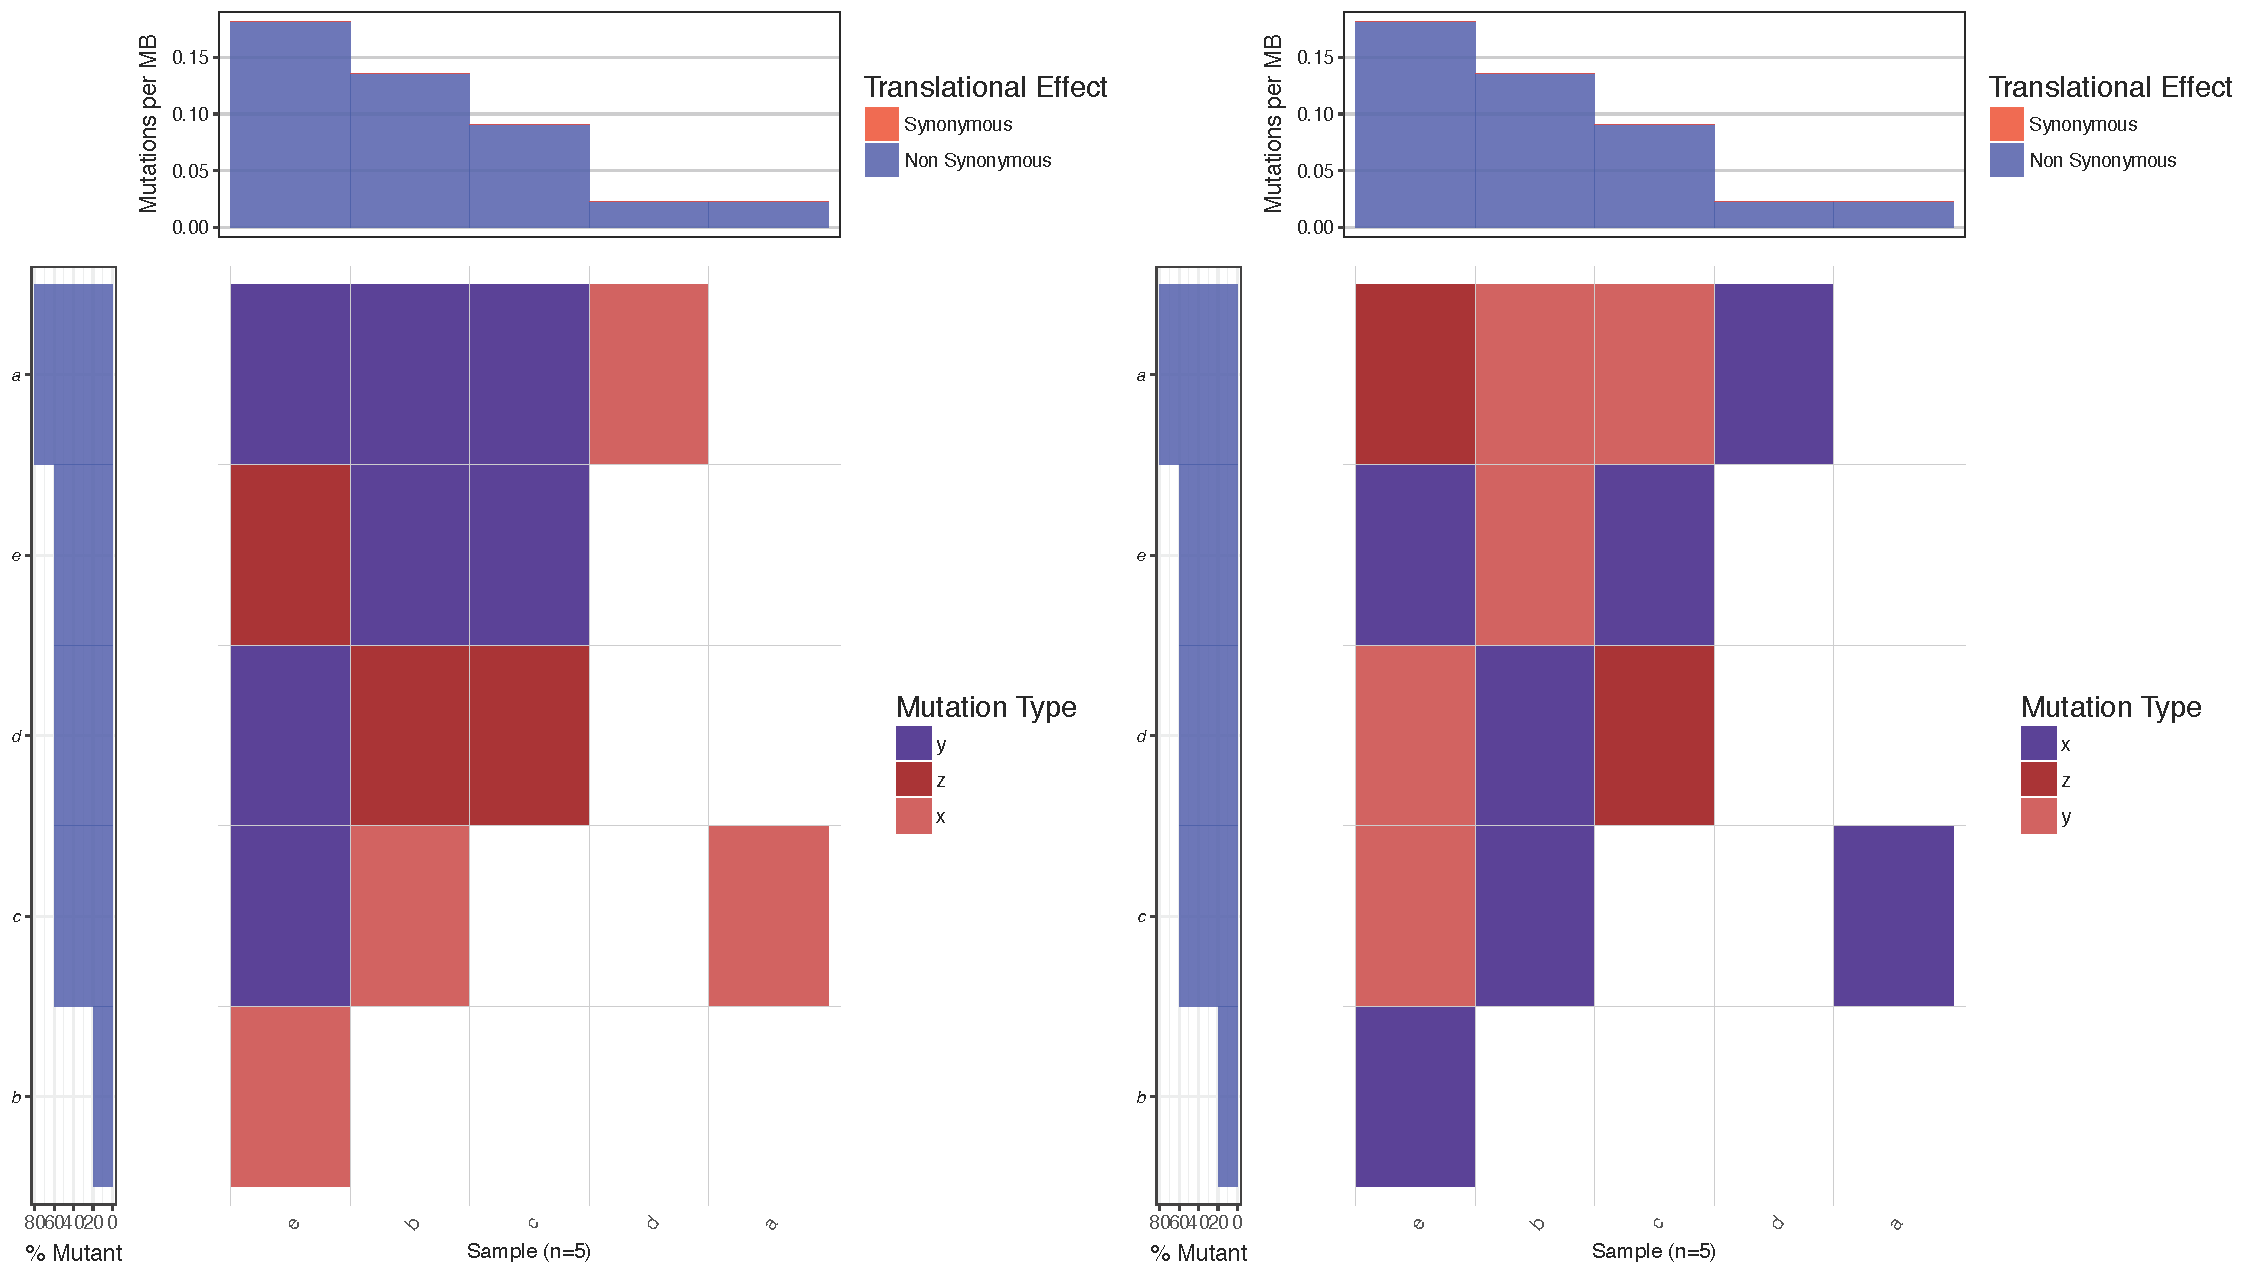
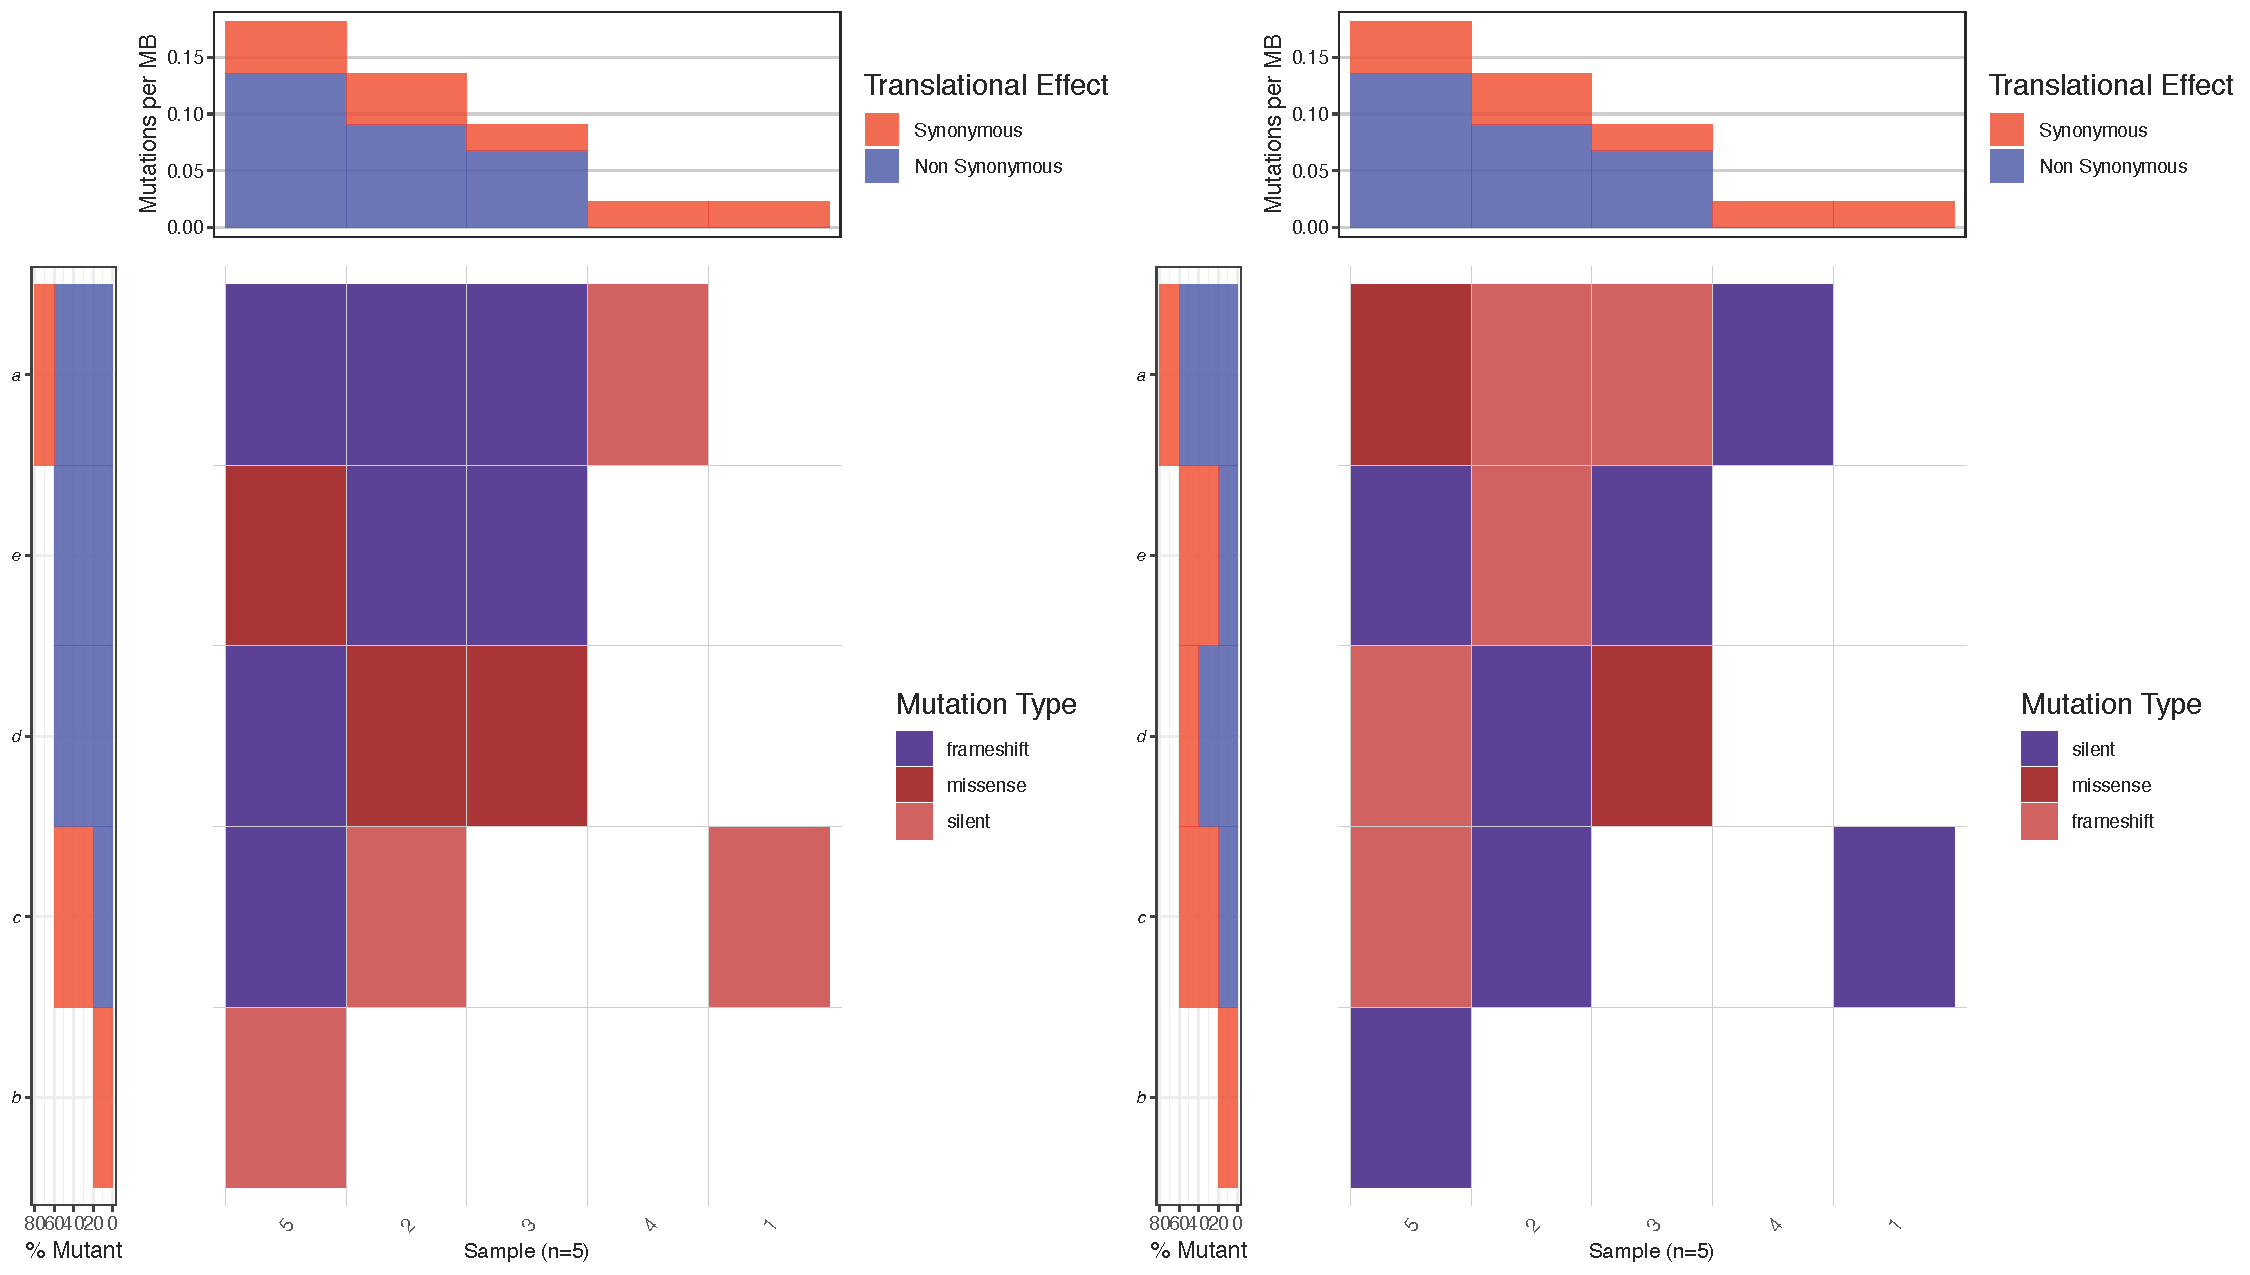
made mutation hierarchy example more intuitive

diff --git a/_posts/0003-02-01-waterfall_GenVisR.md b/_posts/0003-02-01-waterfall_GenVisR.md
@@ -8,7 +8,7 @@ feature_image: "assets/genvis-dna-bg_optimized_v1a.png"
 date: 0003-02-01
 ---
 
-After sequencing a set of samples a common question to ask is what mutations are present in the sample/patient cohort. This type of data is often displayed in a heatmap like structure with rows and columns denotating genes and samples with these variables ordered in a hierarchical pattern based on recurrence. Such plots make viewing mutually exclusive and co-occurring mutational events a trivial task. The [waterfall()](https://www.rdocumentation.org/packages/GenVisR/versions/1.0.4/topics/waterfall) function from the [GenVisR](https://bioconductor.org/packages/release/bioc/html/GenVisR.html) package makes it easy to create these types of charts while also allowing additional data in the context of sample and gene data to be added to the plot. In this tutorial we will use the [waterfall()](https://www.rdocumentation.org/packages/GenVisR/versions/1.0.4/topics/waterfall) function to re-create panel C of figure 2 from the paper ["A Phase I Trial of BKM120 (Buparlisib) in Combination with Fulvestrant in Postmenopausal Women with Estrogen Receptor-Positive Metastatic Breast Cancer."](https://www.ncbi.nlm.nih.gov/pubmed/26563128).
+After sequencing a set of samples, a common question to ask is what mutations are present in the sample/patient cohort. This type of data is often displayed in a heatmap-like structure with rows and columns denotating genes and samples with these variables ordered in a hierarchical pattern based on recurrence. Such plots make viewing mutually exclusive and co-occurring mutational events a trivial task. The [waterfall()](https://www.rdocumentation.org/packages/GenVisR/versions/1.0.4/topics/waterfall) function from the [GenVisR](https://bioconductor.org/packages/release/bioc/html/GenVisR.html) package makes it easy to create these types of charts while also allowing additional data in the context of sample and gene data to be added to the plot. In this tutorial we will use the [waterfall()](https://www.rdocumentation.org/packages/GenVisR/versions/1.0.4/topics/waterfall) function to re-create panel C of figure 2 from the paper ["A Phase I Trial of BKM120 (Buparlisib) in Combination with Fulvestrant in Postmenopausal Women with Estrogen Receptor-Positive Metastatic Breast Cancer."](https://www.ncbi.nlm.nih.gov/pubmed/26563128).
 
 {% include figure.html image="/assets/GenVisR/BKM120_Waterfall_Final.png" width="950" link="http://clincancerres.aacrjournals.org/content/22/7/1583.long" title="Figure 2C" author="Ma et al. Clinical Cancer Research" license="AACR copyright" license_link="http://aacrjournals.org/content/authors/copyright-permissions-and-access" %}
 
@@ -53,11 +53,11 @@ set.seed(426)
 library(gridExtra)
 
 # Create a data frame of random elements to plot
-inputData <- data.frame(sample = sample(letters[1:5], 20, replace = TRUE), gene = sample(letters[1:5], 20, replace = TRUE), variant_class = sample(c("x", "y", "z"), 20, replace = TRUE))
+inputData <- data.frame(sample = sample(1:5, 20, replace = TRUE), gene = sample(letters[1:5], 20, replace = TRUE), variant_class = sample(c("silent", "frameshift", "missense"), 20, replace = TRUE))
 
 # Choose the most deleterious to plot with y being defined as the most
 # deleterious
-most_deleterious <- c("y", "z", "x")
+most_deleterious <- c("frameshift", "missense", "silent")
 
 # Plot the data with waterfall using the 'Custom' parameter
 p1 <- waterfall(inputData, fileType = "Custom", variant_class_order = most_deleterious, mainXlabel = TRUE, out="grob")
@@ -69,15 +69,14 @@ p2 <- waterfall(inputData, fileType = "Custom", variant_class_order = rev(most_d
 grid.arrange(p1, p2, ncol=2)
 
 # Summarize the mutation types for a given sample/gene
-inputData[inputData$sample=="e" & inputData$gene=="a",]
+inputData[inputData$sample=="5" & inputData$gene=="a",]
 
 ```
 
 {% include figure.html image="/assets/GenVisR/waterfall_hierarchy_example.png" width="950" %}
 
-Notice that in the figure above, the top left cell (sample: e, gene: a) has mutations of two types (y and z). Between the two plots we reversed the hierarchy of the mutations specified in `variant_class_order` causing mutation of type "z" to have a higher precedence in the right most plot. As we would expect [waterfall()](https://www.rdocumentation.org/packages/GenVisR/versions/1.0.4/topics/waterfall) then displays the color for mutation type "z" instead of "y" in this cell. Let's go ahead and set a `variant_class_order` that makes sense for the breast cancer plot we're working on. Remember this must be a character vector and contain all mutation types in the data frame `mutationData`.
-```R
-
+Notice that in the figure above, the top left cell (sample: 5, gene: a) has mutations of two types (frameshift and missense). Between the two plots we reversed the hierarchy of the mutations specified in `variant_class_order` causing mutation of type "missense" to have a higher precedence in the right most plot. As we would expect [waterfall()](https://www.rdocumentation.org/packages/GenVisR/versions/1.0.4/topics/waterfall) then displays the color for mutation type "missense" instead of "frameshift" in this cell. Let's go ahead and set a `variant_class_order` that makes sense for the breast cancer plot we're working on. Remember this must be a character vector and contain all mutation types in the data frame `mutationData`.
+``
 # Define a mutation hierarchy
 mutationHierarchy <- c("nonsense", "frame_shift_del", "frame_shift_ins", "in_frame_del", "splice_site_del", "splice_site", "missense", "splice_region", "rna")
 
